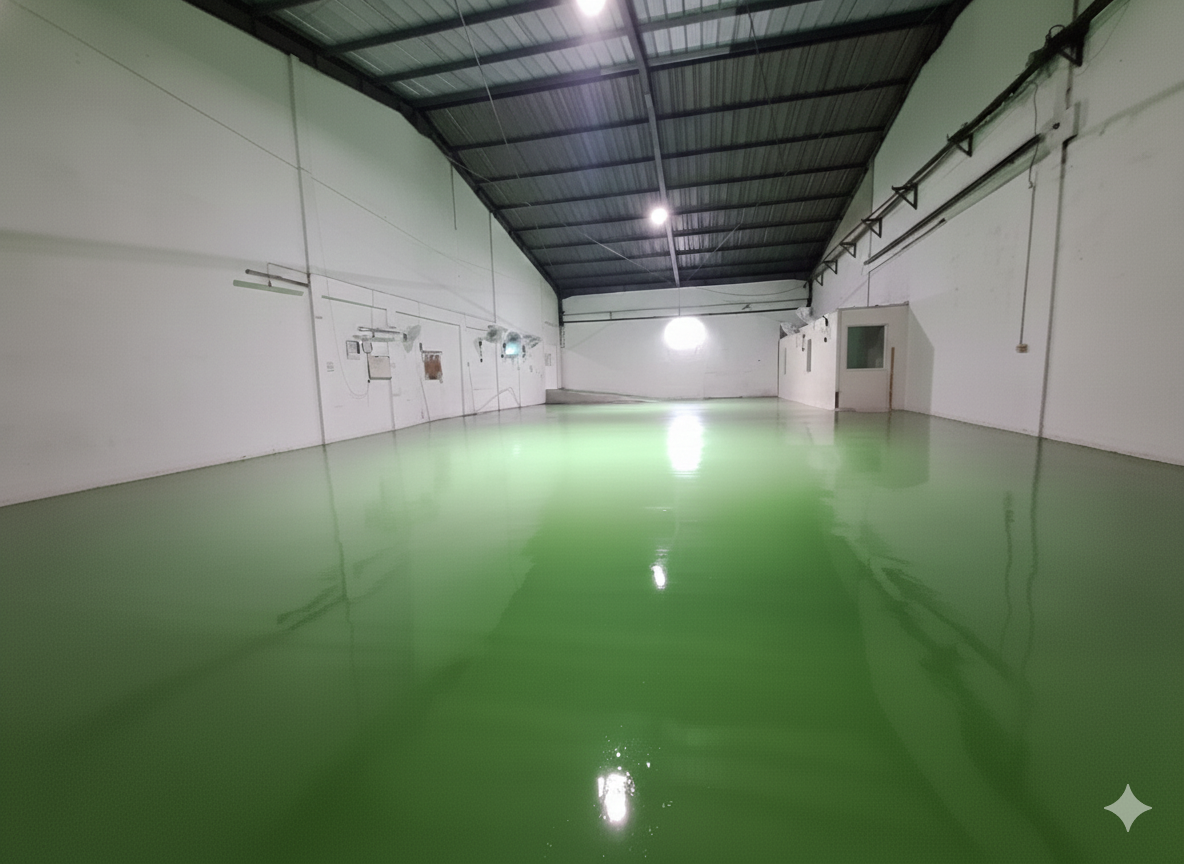
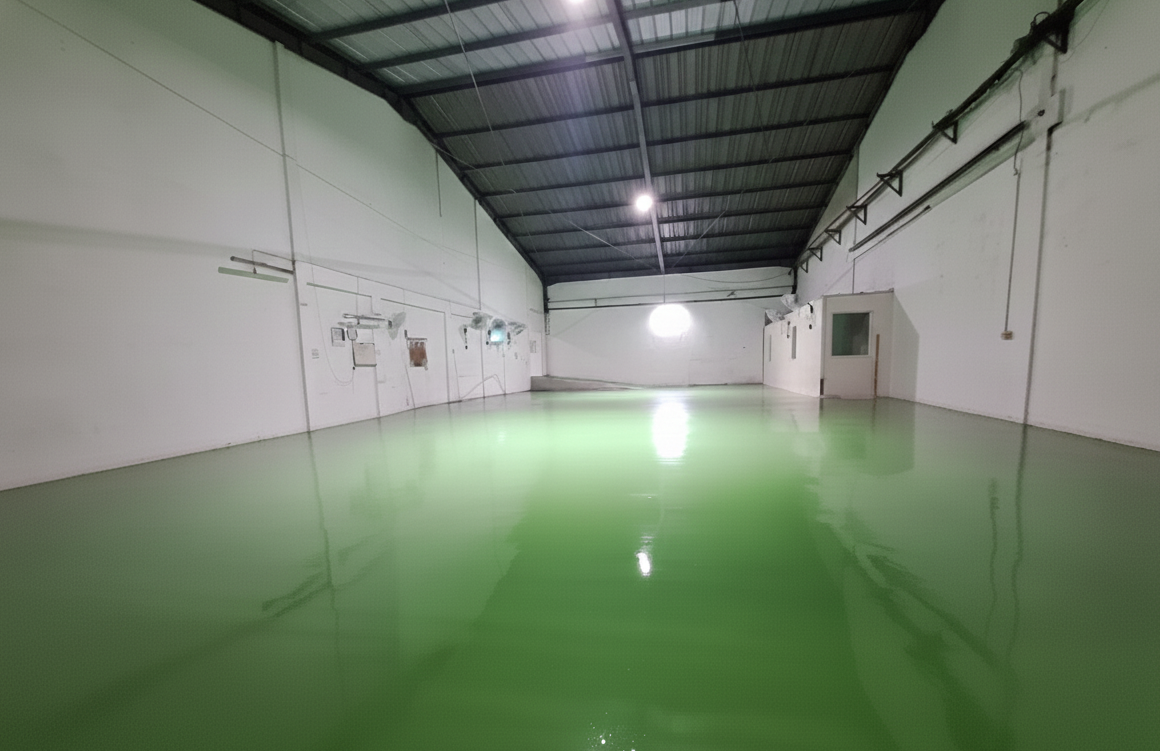
whole bunch of css edits

diff --git a/assets/css/vebro-styles.css b/assets/css/vebro-styles.css
@@ -475,6 +475,11 @@
     display: none;
 }
 
+/* Hide mobile comparison image on all screens by default */
+img#pu-vs-epoxy-mobile.section-image {
+    display: none !important;
+}
+
 
 /* DIFFERENT SCREEN SIZES */
 @media (min-width: 1200px) {
@@ -528,7 +533,7 @@
 
     #PU-Comparison {
         width: 100%;
-        max-width: clamp(100px, 50%, 400px);
+        max-width: clamp(100px, 50%, 500px) !important;
         height: 250px;
         border-radius: 10px;
         box-shadow: 0 8px 32px rgba(0, 0, 0, 0.15);
@@ -537,22 +542,27 @@
     }
     #Epoxy-Comparison {
         width: 100%;
-        max-width: clamp(100px, 50%, 400px);
+        max-width: clamp(100px, 50%, 500px) !important;
         height: 250px;
         border-radius: 10px;
         box-shadow: 0 8px 32px rgba(0, 0, 0, 0.15);
-        margin-top: 13%;
+        margin-top: 180px;
         right: 5%;
     }
 
     #pu-vs-epoxy-desc {
         font-size: clamp(1.1rem, 2.5vw, 1.3rem);
-        max-width: clamp(500px, 85%, 700px);
+        width: clamp(350px, 60%, 600px) !important;
+        max-width: clamp(350px, 60%, 600px) !important;
+        flex-shrink: 0 !important;
         margin: 0 auto 20px auto;
         text-align: center;
         color: #4E3A02;
         font-family: 'Lucida Sans Unicode', sans-serif;
-        top: 90px;
+        top: 27%;
+
+
+       
     }
 
     #phthalate-free {
@@ -628,7 +638,7 @@
 
     #pu-concrete-desc {
         font-size: clamp(1.1rem, 2.5vw, 1.3rem);
-        max-width: clamp(600px, 50%, 700px);
+        max-width: clamp(800px, 80%, 1000px);
         color: #4E3A02;
         font-family: 'Lucida Sans Unicode', sans-serif;
         left: 5%;
@@ -641,7 +651,7 @@
         height: 250px;
         border-radius: 10px;
         box-shadow: 0 8px 32px rgba(0, 0, 0, 0.15);
-        margin-top: -5%;
+        margin-top: -150px;
         right: 5%;
     }
 
@@ -664,7 +674,7 @@
     #PU-Comparison {
         position: absolute;
         width: 100%;
-        max-width: clamp(100px, 50%, 400px);
+        max-width: clamp(100px, 50%, 500px) !important;
         height: 250px;
         border-radius: 10px;
         box-shadow: 0 8px 32px rgba(0, 0, 0, 0.15);
@@ -673,24 +683,25 @@
     }
     #Epoxy-Comparison {
         position: absolute;
-        width: clamp(100px, 45%, 400px);
-        max-width: clamp(100px, 45%, 400px);
+        max-width: clamp(100px, 50%, 500px) !important;
         height: 250px;
         border-radius: 10px;
         box-shadow: 0 8px 32px rgba(0, 0, 0, 0.15);
-        margin-top: -21%;
+        margin-top: -250px;
         right: 5%;
         /* transition: transform .6s  ease-in-out, opacity .6s ease-in-out; */
     }
 
     #pu-vs-epoxy-desc {
         font-size: clamp(1.0rem, 2.5vw, 1.3rem);
-        max-width: clamp(350px, 80%, 500px);
+        width: clamp(350px, 60%, 600px) !important;
+        max-width: clamp(350px, 60%, 600px) !important;
+        flex-shrink: 0 !important;
         margin: 0 auto 20px auto;
         text-align: center;
         color: #4E3A02;
         font-family: 'Lucida Sans Unicode', sans-serif;
-        top: 25%;
+        top: 31%;
     }
 
     #phthalate-free {
@@ -776,7 +787,7 @@
     }
 
     #Epoxy-Comparison {
-        margin-top: -27%;
+        margin-top: -250px;
         right: 5%;
     }
 
@@ -816,8 +827,8 @@
         position: absolute;
         z-index: 0;
         height: 200px;
-        left: 5%;
-        width: 250px;
+        left: -3%;
+        width: clamp(300px, 80%, 500px);
         top:35%;
     }
 
@@ -828,22 +839,24 @@
     #pu-concrete-desc {
         position: absolute;
         font-size: clamp(1.1rem, 2.5vw, 1.3rem);
-        max-width: clamp(600px, 50%, 700px);
+        max-width: clamp(500px, 50%, 600px) !important;
+        
         color: #4E3A02;
         font-family: 'Lucida Sans Unicode', sans-serif;
-        left: 1%;
+        left: 0%;
     }
 
     #PU-concrete-image {
         position: absolute;
-        width: 50%;
+        width: 80%;
         max-width: clamp(800px, 50%, 1000px);
-        height: 150px;
+        height: 250px;
         border-radius: 10px;
         box-shadow: 0 8px 32px rgba(0, 0, 0, 0.15);
         margin-top: -3%;
-        right: 35px;
+        right: 8%;
         top: 150px;
+
     }
 
     #what-is-pu-concrete .content-wrapper {
@@ -852,8 +865,61 @@
         /* height: 250px; */
     }
     
+    #pu-vs-epoxy .content-wrapper {
+        position: relative;
+        min-height: 350px; 
+        max-height: 600px;
+        display: flex !important;
+        flex-direction: column !important;
+        align-items: center !important;
+        gap: 20px !important;
+    }
+
+    #pu-vs-epoxy-desc {
+        display: none !important;
+    }
+
+    #pu-desc {
+        display: block !important;
+        text-align: center;
+        font-size: clamp(0.8rem, 2.5vw, 1.1rem);
+        max-width: clamp(280px, 75%, 400px);
+        height: fit-content;
+        margin: 20px auto;
+        order: 1;
+        top: -12%;
+    }
+
+    #epoxy-desc {
+        display: block !important;
+        text-align: center;
+        font-size: clamp(0.8rem, 2.5vw, 1.1rem);
+        max-width: clamp(280px, 75%, 400px);
+        height: fit-content;
+        margin: 20px auto;
+        order: 2;
+    }
 
     #PU-Comparison {
+        display: none;
+    }
+    #Epoxy-Comparison {
+        display:none !important;
+    }
+
+    /* Show mobile comparison image only on mobile */
+    img#pu-vs-epoxy-mobile.section-image {
+        display: block !important;
+        position: relative;
+        width: 100%;
+        max-width: 400px;
+        height: auto;
+        margin: 20px auto;
+        border-radius: 10px;
+        box-shadow: 0 8px 32px rgba(0, 0, 0, 0.15);
+    }
+
+    /* #PU-Comparison {
         position: absolute;
         width: 100%;
         max-width: clamp(450px, 50%, 500px);
@@ -864,9 +930,9 @@
         left: 50%;
         transform: translateX(-50%);
         right: auto;
-    }
+    } */
 
-    #Epoxy-Comparison {
+    /* #Epoxy-Comparison {
         position: relative;
         width: 100%;
         max-width: clamp(450px, 50%, 500px);
@@ -892,7 +958,7 @@
         font-family: 'Lucida Sans Unicode', sans-serif;
         top: 100px;
         left: -3%;
-    }
+    } */
 
     #phthalate-free {
         position: relative;
@@ -1003,14 +1069,27 @@
     }
 
     #PU-Comparison {
-        top:20%;
+        display: none;
     }
     #Epoxy-Comparison {
         display:none !important;
     }
 
+    /* Show mobile comparison image only on mobile */
+    img#pu-vs-epoxy-mobile.section-image {
+        display: block !important;
+        position: relative;
+        width: 100%;
+        max-width: 400px;
+        height: auto;
+        margin: 20px auto;
+        border-radius: 10px;
+        box-shadow: 0 8px 32px rgba(0, 0, 0, 0.15);
+    }
+
 
 }
+
 
 
 

diff --git a/vebro.html b/vebro.html
@@ -163,6 +163,8 @@
 
         </div>
         <img src="./assets/images/epoxy.jpg" alt="Epoxy" class="section-image" id="Epoxy-Comparison">
+        <img src="./assets/images/pu-vs-epoxy-mobile.png" alt="PU vs Epoxy Mobile Comparison" class="section-image" id="pu-vs-epoxy-mobile">
+
     </section>
 
     <section class="vebro-points" id="phthalate-free">
@@ -216,9 +218,9 @@
 
 
     <section class="vebro-points" id="products">
-        <h2>PRODUCTS</h2>
+        <h2>COLOURS</h2>
         <div class="products-grid">
-            <div class="product-card">
+            <!-- <div class="product-card">
                 <div class="product-image">
                     <img src="./assets/images/temp-1.jpg" alt="Product 1">
                 </div>
@@ -238,35 +240,32 @@
                 </div>
                 <h3>Filler C#1</h3>
                 <p>description here</p>
-            </div>
+            </div> -->
             <div class="product-card">
                 <div class="product-image">
                     <img src="./assets/images/temp-petgreen.jpeg" alt="Product 4">
                 </div>
-                <h3>Pigment - Green</h3>
-                <!-- <p>description here</p> -->
+                <h3>Green</h3>
             </div>
             <div class="product-card">
                 <div class="product-image">
                     <img src="./assets/images/vebro-temp.jpg" alt="Product 5">
                 </div>
-                <h3>Pigment - Cream</h3>
-                <!-- <p>description here</p> -->
+                <h3>Cream</h3>
             </div>
             <div class="product-card">
                 <div class="product-image">
                     <img src=./assets/images/jkt-temp.jpg" alt="Product 6">
-                </d;>
-                <h3>Pigment - Dark Grey</h3>
-                <!-- <p>description here</p> -->
+                </div>
+                <h3>Dark Grey</h3>
             </div>
             <div class="product-card">
                 <div class="product-image">
-                    <img src="./images/jkt-temp.jpg" alt="Product 7">
+                    <img src=./assets/images/jkt-temp.jpg" alt="Product 7">
                 </div>
-                <h3>Pigment - Light Grey</h3>
-                <!-- <p>description here</p> -->
-            </div>
+                <h3>Light Grey</h3>
+            </div> 
+            
         </div>
     </section>
 
